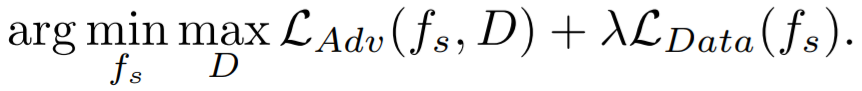
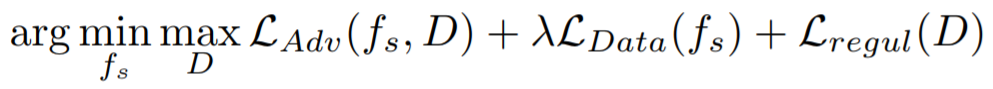
Added regularization.

Changed region(s): [[0.0, 0.0899, 0.9954, 0.9438], [0.1508, 0.1124, 0.181, 0.1798]]

diff --git a/talks/Adversarial Network Compression/Adversarial_Network_Compression.tex b/talks/Adversarial Network Compression/Adversarial_Network_Compression.tex
@@ -194,12 +194,30 @@ activation function.
 
 \end{frame}
 %--------- END Frame 7 -------------
-\begin{frame}{Experiments}
-
+\begin{frame}{Experiment: Regularization of Discriminator}
+Goal is to prevent the discriminator
+from dominating the training, while retaining its capacity:
+\begin{itemize}
+\item Standard L1, L2: No guarantee that the D will become weaker w.r.t student.
+\item (New) \textbf{Adversarial samples for D:} Update D with student samples labeled as teacher's. (discriminator is normally updated only with correct labels) \\
+= longer game between student and D \\
+= more gradient updates for student \\
++ same adversarial samples to update both student and D 
+\end{itemize}
 
 
 
 \end{frame}
+%--------- END Frame 7 -------------
+\begin{frame}{Experiment: Regularization of Discriminator}
+
+\begin{figure}[h]
+\includegraphics[scale=0.45]{img/regularization}
+\end{figure}
+
+\end{frame}
+
+
 %--------- END Frame 6 -------------
 \begin{frame}{Residual Networks (ResNet)}
 \begin{itemize}
